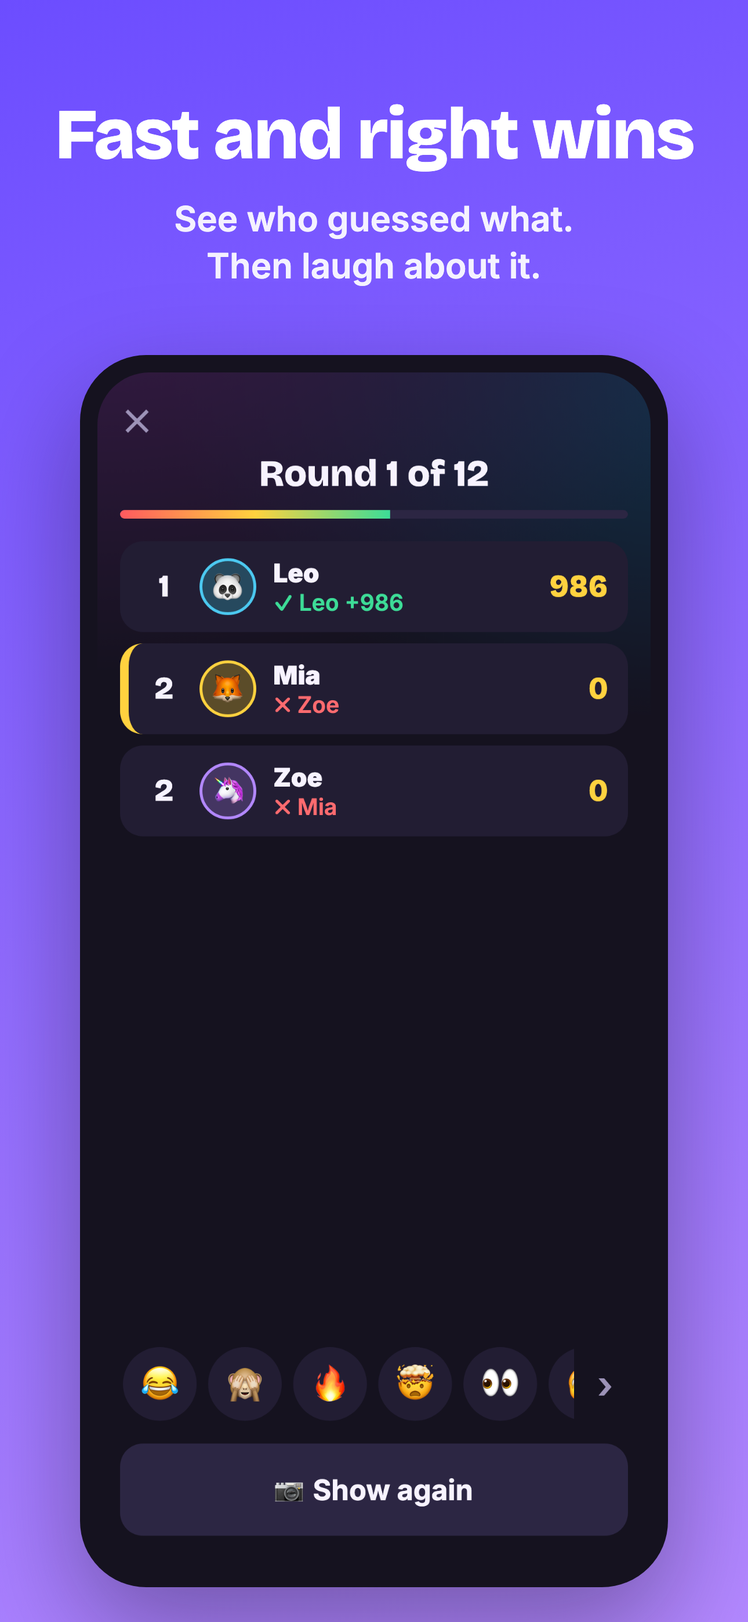
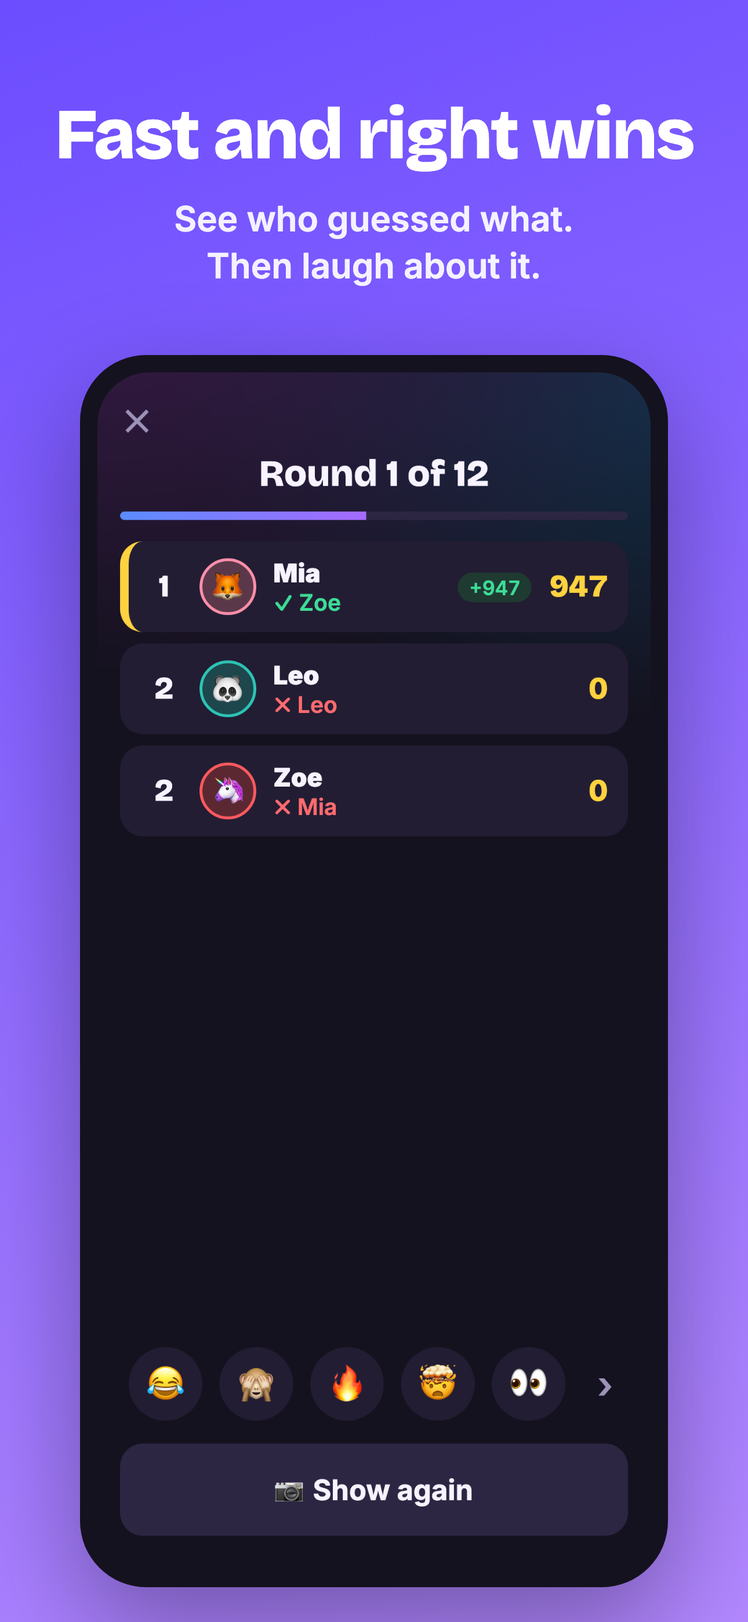
chore(release): implement commit 13 of the plan: store texts and images, docs pass 2, version 1.0.3
The store pages describe the game as it is now. Both stores' description: a leaderboard between the photos, a secret final round and a podium at the end (with the reactions), and "Anyone can flag a photo: it is hidden at once and deleted for everyone." The player count is built from LIMITS like the links from SERVER.origin, so the store text can no longer drift from the room's limit. The test steps for Apple's reviewers say what the flag does (the others stop seeing the photo at once, Delete photo deletes it, after TIMING.flagMs it goes anyway), and What's New describes 1.0.3 in plain words.

The store screenshots are redrawn from a real local game with drawn stand-in photos: the photo grid edge to edge with the new swap line, the dashed waiting pills, and the leaderboard after its overtaking. Its picture is now taken right after the entrance: with the earlier 2.5 s wait it came 3 s into the 5 s board and the timer bar was almost empty (the bar itself was checked and runs as before).

Pass 2 over the docs: README lists clock.js, upcoming.js and loader.js and both places of the version; docs/apps.md names the Phone plugin's big version and its iCloud choice; the demo guide says "Waiting on"; the colour comments say a big game shares the 12 player colours while the avatars tell players apart. AGENTS.md's rendering rule now states the entrance pattern of the leaderboard and podium: the view paints the final state, main.js plays the story over it once per screen key.
[…]

diff --git a/store/ios_listing.js b/store/ios_listing.js
@@ -20,12 +20,12 @@
  *   is published through the managing director's own account (web/legal.html, Imprint).
  * - Review texts are seen only by Apple's reviewers; the preview never shows them.
  */
-import { SERVER } from '../web/shared/config.js';
+import { SERVER, TIMING } from '../web/shared/config.js';
 
 const promotionalText = 'Tonight’s best party game is already on your phones. Random photos from everyone’s camera roll, one question: whose is it?';
 
 /** One or two plain sentences about what players notice (Apple takes it only for updates). */
-const whatsNew = 'New photos at once, and you can swap single photos. A leaderboard after every photo, with Show again for one more look. Everyone can tap Play again, and a game’s code works for a whole day. The new setting “Which photos” keeps chats, emails and other photos full of text out of the game.';
+const whatsNew = 'Up to 16 players and over 130 avatars. Photos are ready faster, and a swapped photo turns over like a card. The leaderboard shows who overtakes whom, the scores stay hidden in the final round, and the podium reveals the winners one by one. A flagged photo is hidden for everyone at once, and the new setting “Own photo” sets the points for guessing your own photo.';
 
 /** The test steps, for App Review (below its answers) and for TestFlight's beta review. */
 const howToTest = `HOW TO TEST
@@ -36,7 +36,7 @@ On both: tap Continue and allow photo access. Tap No for other random photos, or
 
 PHOTOS AND SAFETY
 Only photos a player confirms with Yes leave the phone, and only to the players of that one game. Each photo is deleted from our server right after its round.
-Report: tap the flag on a photo, then Delete photo: it is deleted for everyone at once.
+Report: tap the flag on a photo. The others stop seeing it at once, and Delete photo deletes it for everyone (after ${TIMING.flagMs / 1000} seconds it is deleted anyway).
 Remove: the host taps a player to remove them. They cannot rejoin that game.
 Offensive nicknames are replaced. Everyone accepts the terms (16+) before playing.
 Questions and reports: whoshotit.info@gmail.com`;

diff --git a/store/android_ios_listing.js b/store/android_ios_listing.js
@@ -18,8 +18,8 @@
  *   commas, colons and full stops read better on a phone.
  * - A key set here is never set again in a platform's listing (`problems` in listing.mjs):
  *   each fact has one home.
- * - Links are built from SERVER.origin, never written out, so a move to a domain moves
- *   them too.
+ * - Links and the number of players are built from the config (SERVER.origin, LIMITS),
+ *   never written out, so a move to a domain or a new player limit changes them too.
  * - Screenshots show only drawn stand-in photos (`scripts/helpers/demo-photos.mjs`), never
  *   real ones: nobody's private pictures, no image licence needed.
  *
@@ -31,7 +31,7 @@
  * photos?". The imprint link at the end keeps the imprint one tap from the store page
  * (German law), on Android too, where the page links only the website.
  */
-import { APP, SERVER } from '../web/shared/config.js';
+import { APP, LIMITS, SERVER } from '../web/shared/config.js';
 
 const description = `Your camera roll is full of stories. Time to play them.
 
@@ -45,10 +45,10 @@ HOW IT WORKS
 3. The photos pop up one by one. Tap who took it. Fast and right scores the most.
 
 MADE FOR PARTIES
-• 2 to 16 players, best together in one room
+• ${LIMITS.minPlayers} to ${LIMITS.maxPlayers} players, best together in one room
 • Classic, or Tricky: photos start blurry, zoomed in or pixelated
 • Pick rounds, time and points, each option explained in one sentence
-• A leaderboard after every photo, reactions and a podium at the end
+• Reactions, a leaderboard between the photos, a secret final round and a podium at the end
 • Free, no account, no ads
 
 YOUR PHOTOS STAY YOURS
@@ -56,7 +56,7 @@ YOUR PHOTOS STAY YOURS
 • Chats, emails and other photos full of text stay out, and screenshots can too.
 • Only the players in your game see them.
 • Each photo is deleted right after its round.
-• Anyone can report a photo, and it is gone for everyone at once.
+• Anyone can flag a photo: it is hidden at once and deleted for everyone.
 
 Grab your friends, open the app and find out who really took that photo.
 

diff --git a/web/js/ui.js b/web/js/ui.js
@@ -12,8 +12,9 @@
  *
  * Invariants: every text from a player (names) passes through `esc` before it reaches
  * the DOM. A player's colour is one of the tokens `--color-p0`..`--color-p11`, chosen by
- * the emoji, so a player looks the same on the home screen and in every room (the room
- * keeps avatars unique, so two players never look alike); `--player` on an element hands it
+ * the emoji, so a player looks the same on the home screen and in every room (a big game
+ * has more players than colours, so some share one, but the room keeps avatars unique, so
+ * two players never look alike); `--player` on an element hands it
  * to the classes `border-player`, `bg-player` and `bg-player-fill`. Class names are always
  * written out whole: Tailwind builds only the classes it finds as complete words here.
  */

diff --git a/web/shared/config.js b/web/shared/config.js
@@ -32,7 +32,7 @@ export const APP = {
    * The app's version, restated from `package.json` (the page cannot read it; a test keeps
    * both equal). Every new version asks for the terms once more (`termsToken`).
    */
-  version: '1.0.2',
+  version: '1.0.3',
 };
 
 export const SERVER = {
@@ -199,7 +199,8 @@ export const LIMITS = {
    * The most players a game takes; the room refuses anyone beyond (`CLOSE.full`). The
    * guessing screen's cards, the lobby's pills and the leaderboard are laid out for up to
    * this many on a 360 px phone, and a full room's photos stay small for the free plan's
-   * storage. The store texts say "2 to 16 players".
+   * storage. The store description is built from it and `minPlayers`; the README says
+   * "2 to 16 players".
    */
   maxPlayers: 16,
   nameMax: 16,

diff --git a/styles/app.css b/styles/app.css
@@ -82,7 +82,8 @@
   --color-silver: #cfd6e6; /* the podium's second and third place (first is yellow) */
   --color-bronze: #e0a070;
 
-  /* One colour per player, picked by the avatar (`colourOf` in web/js/ui.js), and the confetti. */
+  /* A player's colour, picked by the avatar (`colourOf` in web/js/ui.js; a big game repeats
+     some, the avatars tell players apart), and the confetti. */
   --color-p0: #ff5a5f;
   --color-p1: #ffd23f;
   --color-p2: #3ddc97;

diff --git a/docs/plans/2026-11-22-game-feel-overhaul.md b/docs/plans/2026-11-22-game-feel-overhaul.md
@@ -1,28 +1,43 @@
 # Game feel overhaul: layout, flag, timer, photos ahead, leaderboard, podium (plan)
 
-Status: planned on 22 November 2026, being implemented on the branch
-`feat/game-feel-overhaul` (each commit's status line below says how far). Each commit is
-implemented with `docs/prompts/implement.md`; after each one its status line is set to done
-and its decisions are added to the decision log at the end. The branch is merged into `main`
-after the last commit.
+Status: planned on 22 November 2026, implemented on the branch `feat/game-feel-overhaul`
+(all thirteen commits, each with `docs/prompts/implement.md`, its decisions in the decision
+log at the end) and merged into `main` on 22 November 2026. Not deployed and not released
+yet: both are the operator's (Operator handoff, below).
 
 ## Operator handoff
 
-What only the operator can do, and the decisions made while implementing that he should
-know about. Kept up to date with every commit.
+What only the operator can do, and the decisions made while implementing that are worth
+knowing. Kept up to date with every commit.
 
-**To do by hand**
-- Deploy the server before releasing the apps (`./scripts/deploy.sh`, a critical command;
-  section 6): the new server keeps the installed apps working.
-- Try the photo choice on a real iPhone and a real Android phone (`./scripts/dev.sh ios`
-  and `android`): the native `photo` call got `download` in commit 8 (AGENTS.md §5). The
-  iPhone app compiles with it (simulator build); what only a real phone shows: with
-  "Optimize iPhone Storage" on, photos kept only in iCloud get their big version when they
-  are on screen (watch that "Yes" still uploads them), and the bucket's first minute of
-  work after the app starts should not make the phone warm or slow.
-- At the release (commit 13): upload the apps (`./scripts/release-apps.sh --submit`), and
-  enter the changed Android store texts in the Play Console by hand (`./scripts/dev.sh
-  store` shows them).
+**To do by hand, in this order**
+1. Try version 1.0.3 on a real iPhone and a real Android phone (`./scripts/dev.sh ios` and
+   `android`); the browser tests cannot show or feel these:
+   - The photo choice: the native `photo` call got `download` in commit 8 (AGENTS.md §5;
+     the iPhone app compiles with it in the simulator). With "Optimize iPhone Storage" on,
+     photos kept only in iCloud get their big version once they are on screen (watch that
+     "Yes" still uploads them), and the bucket's first minute of work after the app starts
+     should not make the phone warm or slow.
+   - The vibrations (commit 6): the 3-2-1 is a 120 ms buzz, a new photo a light tap, a
+     right guess one pulse, a wrong one two, FINAL ROUND a thud, the podium's ticks (the
+     winner's drumroll speeds up to about ten light taps a second).
+   - The animations (commits 10 to 12), which the phones' web views draw themselves: the
+     swap's card turn, the leaderboard's overtaking, FINAL ROUND falling onto the screen,
+     the podium's reveal.
+   - The screen edges (commit 9): screens start right under the status bar and end right
+     above the home indicator (checked in the iPhone simulator); also look on the iPad.
+2. Deploy the server before releasing the apps (`./scripts/deploy.sh`, a critical command;
+   section 6): the new server keeps the installed apps working.
+3. Record the App Review video again with the 1.0.3 TestFlight build before sending it to
+   review (`docs/guides/demo-players.md`, "Record the video for App Review"): the review
+   notes say the attached video was made with the build under review, and the flag, the
+   leaderboard and the end of a game look different now. If it is not needed any more
+   (the app is already live), change the first review note in `store/ios_listing.js` instead.
+4. Release the apps: `./scripts/release-apps.sh --submit` (the version is 1.0.3 already,
+   the store screenshots are redrawn). Then in the Play Console by hand
+   (`docs/guides/android.md`): the description (its party and privacy bullets changed) and
+   the four redrawn screenshots `store/images/android_screenshot-{1,2,3,5}-*.png`;
+   `./scripts/dev.sh store` shows both pages to copy from.
 
 **Decisions worth knowing** (details in the decision log, section 12)
 - Your own AGENTS.md edit got into my commit 2 by mistake (`git add -A`); I took it out
@@ -37,30 +52,31 @@ know about. Kept up to date with every commit.
   (your rule), the sheet does not come back.
 - Commit 5: two icons were Emoji 14 (🫥), an empty box on Android 10 to 12; replaced, and a
   test now fails on any emoji newer than Emoji 12.0 in the app.
-- Commit 6: the vibrations can only be felt on a real phone; please check on both phones
-  that they feel right (the 3-2-1 is a 120 ms buzz, a new photo a light tap). The browser
-  tests check that each one is played at its moment.
-- Commits 10 to 12: the swap's 3D turn, the leaderboard's overtaking, FINAL ROUND and the
-  podium's reveal are checked in Chrome; please look at them once on a real iPhone and
-  Android phone, where the web views draw them themselves, and feel FINAL ROUND's thud and
-  the podium's ticks (the winner's drumroll speeds up to about ten light taps a second).
-- Commit 12: the podium now takes about 6 s before "Play again" appears (third place, then
-  second, then the winner). The App Review recording guide says to wait for it.
-- Commit 11: after the last photo the game goes from its reveal straight to the podium (no
-  last leaderboard); the board before it shows only "Results are hidden" and FINAL ROUND.
-  The store texts still say "a leaderboard after every photo" until the release commit.
+- Commit 6: the browser tests check that each vibration is played at its moment; how it
+  feels only a real phone shows (to do 1).
 - Commit 7: the privacy policy now says that once a game starts, the players' apps load its
   photos in the background and keep them in memory only until each one's round is over.
-  The page's date stays 22 November 2026 (it is today's); the version 1.0.3 of the release
-  asks everyone to accept the terms again anyway. AGENTS.md's two photo rules say the same
-  (a photo is reachable from its game's 3-2-1 until its round is over, only if it is
-  played, never stored on the phones).
+  The page's date stays 22 November 2026 (it is today's); version 1.0.3 asks everyone to
+  accept the terms again anyway. AGENTS.md's two photo rules say the same (a photo is
+  reachable from its game's 3-2-1 until its round is over, only if it is played, never
+  stored on the phones).
 - Commit 8: the big versions prepared ahead come only from photos stored on the phone
   (no iCloud download); a photo kept only in iCloud downloads once it is on screen.
-- Commit 9: screens now start right under the status bar and end right above the home
-  indicator (checked in the iPhone simulator; please look on a real iPhone and the iPad).
-  With 16 players the lobby still scrolls on the smallest phones until commit 10 makes its
-  pills compact; my commit 8 had briefly let the photos overlap No and Yes there (fixed).
+- Commits 9 and 10: no in-game screen scrolls as a page with 16 players on 360 x 640,
+  375 x 667 and 393 x 852 (a browser test plays such a game on three phones with 13 light
+  bots); commit 8 had briefly let the photos overlap No and Yes on small phones (fixed in
+  commit 9).
+- Commit 11: after the last photo the game goes from its reveal straight to the podium (no
+  last leaderboard); the board before it shows only "Results are hidden" and FINAL ROUND.
+- Commits 11 and 12: an animation that tells a story (the leaderboard, FINAL ROUND, the
+  podium) is played over the screen's final state, once per screen, so a repaint or a
+  reconnect never restarts or cuts it. AGENTS.md's rendering rule now says so.
+- Commit 12: the podium takes about 6 s before "Play again" appears (third place, then
+  second, then the winner). The App Review recording guide says to wait for it.
+- Commit 13: the store description's player count is built from the config (like its
+  links), the report sentences say what the flag does now, What's New describes 1.0.3,
+  and the leaderboard screenshot is taken right after its animation, so its timer bar
+  still shows (it was almost empty with the first try).
 
 This plan turns the operator's request of 22 November 2026, and his answers to the
 questions that followed, into thirteen commits. For every change it says what it is, why,
@@ -920,7 +936,7 @@ Status: done.
   game test wait for it). `demo-players.mjs`: waits for "Play again" to be visible.
 
 ### Commit 13: release: docs, store texts and images, demo players, version 1.0.3
-Status: open.
+Status: done.
 
 - Pass 2 over everything above: README (game life: dealt at the 3-2-1, photos loaded ahead,
   FINAL ROUND, 16 players), `AGENTS.md` (the photo rules if not done in commit 7, the player
@@ -1058,3 +1074,11 @@ fonts, and removes any that look alike on one of them.
 | Commit 12: the timeline | A 0.3 s breath, then third place trembles 1 s, second 1.4 s, the winner 2 s, 0.5 s after each reveal; ticks every 330 ms, the winner's from 400 ms down to 90 ms apart (about 13); a `land` at each reveal; about 6 s in all | The plan said about 6.5 s; the pauses are 0.5 s. |
 | Commit 12: shared pieces | The confetti moved from the guessing screen into `ui.js` (`CONFETTI`), used by the reveal and the podium; `animate-winner` became `appear` for 0.6 s without its delay; the end screen's part is `results` (was `body`), the name `main.js` starts the podium by | One confetti, one pop; a part name no other screen uses. |
 | Commit 12: the demo players | `demo-players.mjs` unchanged: its tap on "Play again" waits until the button is visible (Playwright does); `docs/guides/demo-players.md` says to stop the App Review recording once "Play again" appears | The plan listed a change to the script; it is not needed. |
+| Commit 13: the player count in the store description | Built from `LIMITS.minPlayers` and `LIMITS.maxPlayers`, like the links from `SERVER.origin` (the listing's header says so); `config.js` names the README as the one written copy | One copy less of a config value. What's New stays written out: it describes this version only and is rewritten with the next. |
+| Commit 13: the description's party bullet | "Reactions, a leaderboard between the photos, a secret final round and a podium at the end" | The plan's sentence left out the reactions the old bullet named; they are still part of the game. |
+| Commit 13: the report sentences | Description: "Anyone can flag a photo: it is hidden at once and deleted for everyone." Test steps for the reviewers: tap the flag, the others stop seeing it at once, Delete photo deletes it for everyone, after `TIMING.flagMs` (15 s, built in) it is deleted anyway | A reviewer who waits sees the photo go by itself; the steps say why. The welcome screen and the terms speak of reporting (Delete photo), which still deletes at once (commit 5's decision). |
+| Commit 13: What's New | Up to 16 players and over 130 avatars, photos ready faster, the swap's card turn, the overtaking leaderboard, the hidden scores of the final round, the podium, the flag, "Own photo" | What players notice first; plain words, no dashes. |
+| Commit 13: the leaderboard screenshot | Taken 1.7 s after the rows appear (plus `snap`'s 0.5 s pause), when the entrance has just ended | With commit 11's 2.5 s wait the picture came 3 s into the 5 s board and its timer bar was almost empty (checked: the bar itself runs as before). Now it shows half, in the new blue to violet. |
+| Commit 13: pass 2 | README: `clock.js`, `photos.js`, `upcoming.js` and `loader.js` in the app's file list, and both places of the version in Release; `docs/apps.md`: the `Phone` row names the big version and its iCloud choice (Haptics was named since commit 6); the demo guide: "Waiting on"; `ui.js` and `styles/app.css`: a big game shares the 12 player colours, the avatars tell players apart; AGENTS.md, Rendering: an entrance never changes a view's markup, `main.js` plays it over the final state once per screen key | The entrance pattern is a rule for the next change to an animation, so it belongs with the painter's rule. AGENTS.md's photo rules were updated in commit 7; its player colours note stays true. |
+| Commit 13: version | 1.0.3 in `package.json`, its lock file and `APP.version` | Every player accepts the terms once more after the update (`termsToken`). No deploy and no upload: both are the operator's (Operator handoff). |
+| Commit 13: the App Review video | Not recorded again here | It needs a real iPhone with the 1.0.3 TestFlight build; the review notes claim it shows the build under review (Operator handoff, to do 3). |

diff --git a/AGENTS.md b/AGENTS.md
@@ -145,7 +145,7 @@ These systems are centralised and should be carefully checked with every related
 - User-facing text (all of `web/`, plus the photo permission text in the native projects): everything a user reads (labels, buttons, errors, sheets, the legal page) is in English, written in plain, simple words and the shortest form that stays clear ("even grandma understands it"); longer explanations go behind the "?" sheet, formatted with headlines. The long dash (em dash, U+2014) is never used anywhere in this repo. Short dashes (the en dash U+2013, or a spaced hyphen used as a pause) are avoided in text users read; use a comma, colon, full stop or parentheses, and write a range as "1 to 4". `test/unit/config.test.js` pins the dash rule.
 - Colours and design tokens (frontend): every colour is defined once, in the `@theme` of `styles/app.css`, and nowhere else: the two main colours (the dark blue `navy` and the `yellow`), the dark blue surfaces, the text and signal colours, and the player colours (`--color-p0`..`--color-p11`), next to the type scale, the fonts and the animations. Tailwind's own colours and sizes are switched off, so only these exist as classes. Always use them by name (`bg-card`, `text-muted`, `border-player`); a new colour is added to the theme first. Never write a colour value (hex, `rgb()`, `hsl()`, …) in a view, a page, a script or an inline style: an inline style may only point at a token (`--player: var(--color-p3)`), and the drawing scripts read the theme through `scripts/helpers/colours.mjs`. Static files that cannot read CSS repeat the few colours they need (the icon `web/icons/icon.svg`; the theme colour in `web/index.html`, pinned by `test/unit/config.test.js`, which also fails on any colour value in `web/`'s code and pages). Drawn stand-in photos and test fixtures are content, not UI, and keep their own colours; so does the store preview (`scripts/helpers/store-preview.mjs`), which imitates the stores' pages, not the app.
 - Styling (frontend): Tailwind utility classes in the views (`web/js/views/`, `web/js/ui.js`) and pages, always written out whole (Tailwind builds only the classes it finds as complete words, never `bg-${x}`). A state shows through an attribute the element has anyway (`aria-pressed:`, `aria-expanded:`, `disabled:`, `data-off:`) or through the view picking one complete class list; never two utilities for the same property on one element. What several screens repeat is defined once: the component classes `screen`, `btn` and `link` in `styles/app.css` (one element each; a utility next to them wins) and the markup helpers in `web/js/ui.js` (avatar, top bar, logo and title, spinner, timer bar, reaction row). There is no CSS besides `styles/app.css`. Scripts and tests find elements by role, label, text, id or a `data-*` hook (`data-act`, `data-part`, `data-cell`), never by a styling class.
-- Rendering (frontend): every screen and sheet is a pure view returning `{ key, layout, parts }`, painted by the ONE painter in `web/js/render.js`, and every tap goes through `data-act` and the one `ACTIONS` table in `web/js/main.js`. Never add a second render path or per-element listeners.
+- Rendering (frontend): every screen and sheet is a pure view returning `{ key, layout, parts }`, painted by the ONE painter in `web/js/render.js`, and every tap goes through `data-act` and the one `ACTIONS` table in `web/js/main.js`. Never add a second render path or per-element listeners. An entrance that tells a story (the leaderboard's, FINAL ROUND, the podium) never changes a view's markup: the view always paints the final state, and `main.js` plays the story over it once per screen key (`session.shown`) by setting `data-*` attributes, so a repaint or a reconnect can neither restart nor cut it.
 - Env handling: there are no environment variables. The app and the server read their configuration only from `web/shared/config.js`; the deployment from `wrangler.jsonc`. (The build scripts find the toolchains through the usual `JAVA_HOME` / `ANDROID_HOME`, `scripts/helpers/preflight.sh`.)
 - Scripts/CLIs: Have in mind that there is a scripts directory and a scripts/helpers directory. The scripts/helpers directory contains scripts that are never touched by the user. The scripts directory contains scripts that are touched by the user (`setup.sh`, `test.sh`, `dev.sh`, `deploy.sh`, `release-apps.sh`). Everything should be cleanly integrated, following the existing patterns, shared logic, preflight checks, and so on. Every preflight check is its own function in `scripts/helpers/preflight.sh`, bundled in one function per script, and whenever a check fails, it gives a high-level reason and the practical fix.
 - Native twins: the app's own plugin `Phone` exists twice, `PhonePlugin.java` and `PhonePlugin.swift`, with the same methods and answers, documented once in `web/js/phone.js`. A change to one is made to the other in the same commit. Everything else native is Capacitor's.

diff --git a/README.md b/README.md
@@ -41,8 +41,9 @@ It refuses while a `TODO_OPERATOR:` value is left or the machine is not logged i
 deploys only if every test passes. Keep Cloudflare's cookie-setting extras (Bot Fight Mode,
 Web Analytics, Zaraz) off: the privacy policy promises no cookies and no analytics.
 
-**Apps:** raise `"version"` in `package.json`, run `./scripts/release-apps.sh --submit`. It
-uploads both apps and sends them to review; both go live by themselves after approval. Store setup and the first release by hand:
+**Apps:** raise `"version"` in `package.json` and `APP.version` (a test keeps them equal),
+run `./scripts/release-apps.sh --submit`. It uploads both apps and sends them to review;
+both go live by themselves after approval. Store setup and the first release by hand:
 [docs/apps.md](docs/apps.md); everything the stores get (texts, images, form answers): `store/`.
 
 **The server's address** is `SERVER.origin` in `web/shared/config.js` (and `wrangler.jsonc`;
@@ -67,7 +68,7 @@ app (web/ inside Capacitor) ── HTTPS ──>  Worker (src/worker.js)  ──
 | `src/room.js` | The room: turns messages, uploads and its alarm into events, then persists, deletes unreferenced photos, broadcasts views and sets the next alarm. |
 | `src/worker.js` | Creates rooms (EU only), checks who may call, forwards room requests. Everything else is the website from `web/`. |
 | `styles/app.css` | The design: Tailwind's theme (every colour, with the dark blue and the yellow as main colours; the type scale, fonts, animations) and the shared `screen`, `btn` and `link`. Built into `web/css/app.css` (git-ignored) by `wrangler dev`/`deploy` and the app release. |
-| `web/js/` | The app: `main.js` (controller), `views/` (screens and sheets as HTML strings with Tailwind classes; shared pieces in `ui.js`), `render.js` (repaints only changed parts), `connection.js` (socket with reconnect), `photos.js` (the dealt set and the previews kept ready), `textcheck.js` (counts lines of text on a preview), `phone.js` (everything native). |
+| `web/js/` | The app: `main.js` (controller), `views/` (screens and sheets as HTML strings with Tailwind classes; shared pieces in `ui.js`), `render.js` (repaints only changed parts), `connection.js` (socket with reconnect), `clock.js` (the timer bar's countdown), `photos.js` (the photos to choose from, with a bucket of previews kept ready), `upcoming.js` (the game's photos, loaded ahead in play order), `loader.js` (one job at a time, for both), `textcheck.js` (counts lines of text on a preview), `phone.js` (everything native). |
 | `web/legal.html` | Imprint, privacy policy, terms, content reports, licences. |
 | `store/` | Everything the stores get, named by who gets it (`android_ios_` both, `ios_`, `android_`): the listings and `images/`. `scripts/helpers/listing.mjs` is the one reader: the iOS upload, the image scripts and the preview (`./scripts/dev.sh store`) all use it, so the preview shows what both stores get. |
 | `android/`, `ios/` | The native projects; what is ours there: [docs/apps.md](docs/apps.md). |
@@ -83,9 +84,9 @@ in which random order) → per round *load* (every phone holds the photo and the
 *show* → *reveal* → *board* (the leaderboard; holding "Show again" shows the photo to
 everyone and stops the clock; when its time is up it waits until every phone holds the next
 round's photos) → *end*. The last photo's reveal goes straight to *end*, and the board
-before it says only "FINAL ROUND", so the standings stay secret until the podium. "Play again" is anyone's: the first tap opens the
-next game under the same code, the others join it when they are done looking at the
-results. Apps get a full snapshot after every change, with the photo's owner hidden until
+before it says only "FINAL ROUND", so the standings stay secret until the podium. "Play
+again" is anyone's: the first tap opens the next game under the same code, the others join
+it when they are done looking at the results. Apps get a full snapshot after every change, with the photo's owner hidden until
 the reveal.
 
 **Photos.** With the player's permission, the app picks n random photos on the phone and

diff --git a/docs/apps.md b/docs/apps.md
@@ -8,7 +8,7 @@ cannot do. The server (`src/`, Cloudflare) is the same for both.
 
 | What | Android | iPhone |
 |---|---|---|
-| The app's own plugin `Phone` (photo access, random previews and the chosen photos, settings page, screen on) | `android/app/src/main/java/com/hivedone/whoshotit/PhonePlugin.java` | `ios/App/App/PhonePlugin.swift` |
+| The app's own plugin `Phone` (photo access, random previews, a photo in its upload size, from iCloud only when asked, settings page, screen on) | `android/app/src/main/java/com/hivedone/whoshotit/PhonePlugin.java` | `ios/App/App/PhonePlugin.swift` |
 | Registering it | `MainActivity.java` | `MainViewController` in `PhonePlugin.swift`, used by `SceneDelegate.swift` |
 | Permissions, invite links `whoshotit://join/<CODE>`, portrait only | `AndroidManifest.xml` | `Info.plist` |
 | Privacy manifest | (none on Android) | `PrivacyInfo.xcprivacy` |

diff --git a/docs/guides/demo-players.md b/docs/guides/demo-players.md
@@ -68,4 +68,4 @@ including reporting a photo and removing a player. What worked:
 | "No game with this code" in the script's output | A typo, or the game is closed. Start a new game and use its code. |
 | They never appear in the lobby | The computer is offline, or the test browser is missing: run `./scripts/setup.sh`. |
 | They join but never get ready | Wait the half minute. If it takes longer, Ctrl+C and start them again. |
-| The game does not start | Someone is not ready yet: the lobby says who ("Waiting for …"). |
+| The game does not start | Someone is not ready yet: the lobby says who ("Waiting on …"). |
